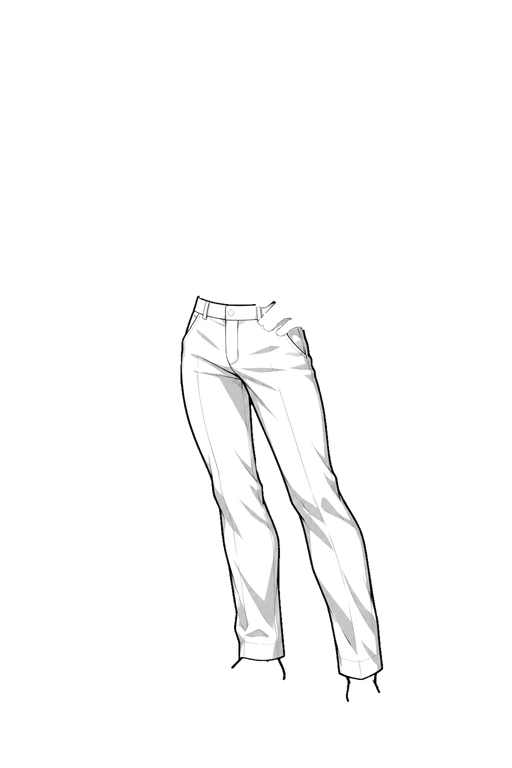
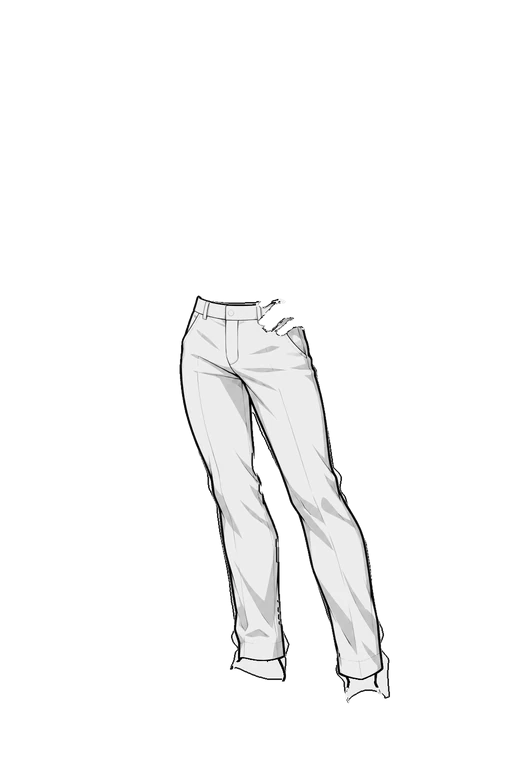
Примерочная: брюки строго по ручной обводке, недостающая ткань дорисовывается
Claude-Session: https://claude.ai/code/session_013zhon25Gp5vam6iSjkw8f2

diff --git a/scripts/clothing-game-hand-masks.py b/scripts/clothing-game-hand-masks.py
@@ -1,6 +1,7 @@
 # Слои вещей по ручной обводке (заливка #FF00FF поверх картинки вещи из test/clothes).
-# Край обводки подтягивается к контуру вещи: в полосе до 6 px вокруг заливки берутся
-# пиксели, которые отличаются от base (контур и край вещи), остальное (тело, фон) — нет.
+# Обводка = силуэт вещи, берётся как есть, ничего не обрезается. Внутри силуэта:
+# пиксели вещи (белые/серые) берутся из картинки; где под обводкой не вещь (кожа, фон) —
+# дорисовывается ткань; по краю силуэта, где нет своего контура, рисуется контур.
 # Запуск из корня: python3 scripts/clothing-game-hand-masks.py pants shoes shirt ...
 import sys
 from pathlib import Path
@@ -9,33 +10,27 @@ from PIL import Image
 from scipy import ndimage as nd
 
 ART = Path("public/images/clothing-game")
-base = np.array(Image.open(ART / "test2/base.png").convert("RGB")).astype(np.int16)
+FABRIC = 236   # светлый тон дорисованной ткани (белая вещь до перекраски)
+INK = 22       # цвет контура
 
 for name in sys.argv[1:]:
-    paths = sorted((ART / "test2/hand-masks").glob(f"{name}_mask.*"))
-    painted = np.array(Image.open(paths[0]).convert("RGB")).astype(np.int16)
+    painted_path = sorted((ART / "test2/hand-masks").glob(f"{name}_mask.*"))[0]
+    painted = np.array(Image.open(painted_path).convert("RGB")).astype(np.int16)
     src = np.array(Image.open(ART / f"test/clothes/{name}.png").convert("RGB")).astype(np.int16)
     mag = (painted[..., 0] > 190) & (painted[..., 1] < 100) & (painted[..., 2] > 190)
     mag = nd.binary_fill_holes(nd.binary_closing(mag, iterations=2))
-    changed = np.abs(src - base).sum(2) > 40
-    ring = nd.binary_dilation(mag, iterations=6) & ~mag
-    keep = mag | (ring & changed)
-    keep = nd.binary_fill_holes(nd.binary_opening(keep, iterations=1))
-    # обводку можно делать с заходом за контур: белый фон снаружи контура вещи срезаем.
-    # Фон = светлые пиксели, связанные с краем картинки (контур вещи их не пропускает).
-    light = src.min(2) > 225
-    lab, _ = nd.label(light)
-    edge = np.unique(np.concatenate([lab[0], lab[-1], lab[:, 0], lab[:, -1]]))
-    outside = np.isin(lab, edge[edge > 0])
-    keep &= ~nd.binary_dilation(outside, iterations=1)
-    # вещи белые: цветные пиксели (кожа, волосы), на которые зашла обводка, выкидываем
+    # контур вещи прямо за краем обводки тоже входит в вещь
+    lum = src @ np.array([0.299, 0.587, 0.114])
+    ring = nd.binary_dilation(mag, iterations=3) & ~mag
+    shape = mag | (ring & (lum < 70))
     mx, mn = src.max(2), src.min(2)
-    skin = ((mx - mn) / np.maximum(mx, 1) > 0.18) & (mx > 60)
-    keep &= ~nd.binary_opening(skin, iterations=1)
-    keep = nd.binary_opening(keep, iterations=1)
-    alpha = (nd.gaussian_filter(keep.astype(np.float32), 0.6) * 255).astype(np.uint8)
-    lum = (src @ np.array([0.299, 0.587, 0.114])).clip(0, 255).astype(np.uint8)
-    out = np.dstack([lum, lum, lum, alpha])
-    out[alpha == 0] = 0
-    Image.fromarray(out).save(ART / f"test2/layers/{name}.png", optimize=True)
-    print("ok", name, int(keep.sum()), "px")
+    cloth = ((mx - mn) / np.maximum(mx, 1) < 0.15) & (mn < 250)   # белая/серая вещь и контур
+    out = np.where(cloth, lum, FABRIC).astype(np.float32)
+    edge = shape & ~nd.binary_erosion(shape, iterations=3)
+    has_line = nd.binary_dilation(lum < 70, iterations=1)
+    out[edge & ~has_line] = INK
+    alpha = (nd.gaussian_filter(shape.astype(np.float32), 0.6) * 255).astype(np.uint8)
+    o = np.dstack([out, out, out]).clip(0, 255).astype(np.uint8)
+    res = np.dstack([o, alpha]); res[alpha == 0] = 0
+    Image.fromarray(res).save(ART / f"test2/layers/{name}.png", optimize=True)
+    print("ok", name, int(shape.sum()), "px")
